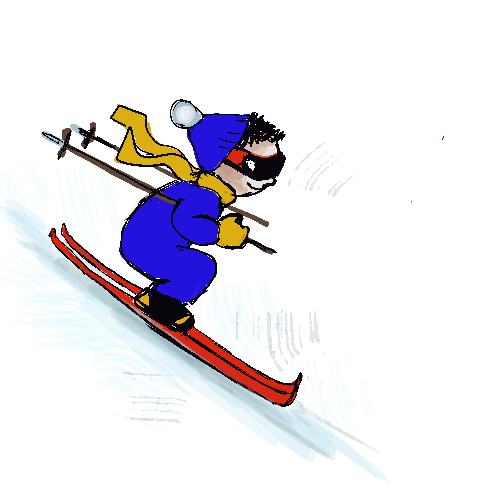
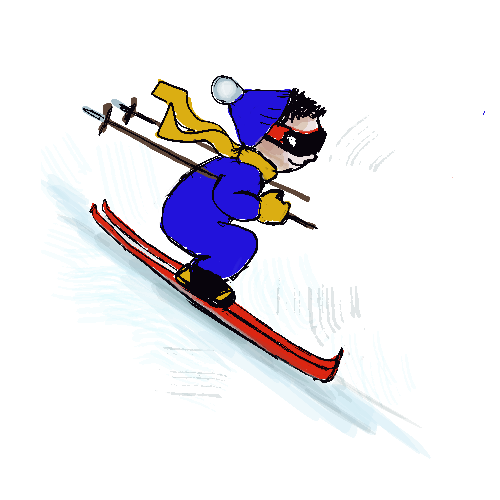
new pictures added, bugs fixed

diff --git a/index.js b/index.js
@@ -7,7 +7,7 @@ let skin = `./imgs/Cutekid`;
 let cordinates = 'lat=57.629871&lon=39.873676';
 
 let cityListAndCords = {
-   'Ярославль':{
+   'Ярославль': {
       cord: 'lat=57.629871&lon=39.873676'
    },
    'Москва': {
@@ -28,17 +28,13 @@ let curData = {};
 let plus5data = {};
 let plus10data = {};
 
-
-
-
-
-cityValue.addEventListener('click',()=>{
+cityValue.addEventListener('click', () => {
    let cityListDiv = document.createElement('div');
    cityListDiv.classList.add('cityListDiv');
-})
+});
 
 
-let dataCons =(cords)=>{
+let dataCons = (cords) => {
 
    fetch(`https://api.openweathermap.org/data/2.5/onecall?${cords}&exclude=minutely,daily&appid=17a2a05179606595e90bf4a02fd2ce0a`)
   .then(function(rspns){return rspns.json()})
@@ -46,18 +42,18 @@ let dataCons =(cords)=>{
      console.log(data); 
 
      
-     let curDataInformation = new dataGetter(data.current,skin);
+     let curDataInformation = new dataGetter(data.current, skin);
      curData = curDataInformation.returnActualData();
      let cardCur = new Card (curData, 'Сейчас');  
      mainDiv.appendChild(cardCur.returnMethod());
      
-     let forward5HInformation = new dataGetter(data.hourly[4],skin);
+     let forward5HInformation = new dataGetter(data.hourly[4], skin);
      plus5data = forward5HInformation.returnActualData();
      let cardPlus5data = new Card(plus5data, 'Через 5 часов');
      mainDiv.appendChild(cardPlus5data.returnMethod()); 
 
 
-     let forward10HInformation = new dataGetter(data.hourly[9],skin);
+     let forward10HInformation = new dataGetter(data.hourly[9], skin);
      plus10data = forward10HInformation.returnActualData();
      let cardPlus10data = new Card(plus10data, 'Через 10 часов');
      mainDiv.appendChild(cardPlus10data.returnMethod());
@@ -74,12 +70,12 @@ dataCons(cordinates);
 //меню выбора города(координат) 
 let cityListDiv = document.createElement('div');
 cityListDiv.classList.add('cityListDiv');
-for (let ci=0;ci<Object.keys(cityListAndCords).length;ci++){
+for (let ci=0; ci < Object.keys(cityListAndCords).length; ci++) {
    let cityP = document.createElement('p');
    cityP.innerHTML=`${Object.keys(cityListAndCords)[ci]}`;
    cityP.classList.add('cityP');
    cityListDiv.appendChild(cityP);
-   cityP.addEventListener('click',()=>{
+   cityP.addEventListener('click', () => {
       cityListDiv.classList.remove('activated');
       city.innerHTML = `${Object.keys(cityListAndCords)[ci]}`;
       mainDiv.innerHTML = '';
@@ -89,7 +85,7 @@ for (let ci=0;ci<Object.keys(cityListAndCords).length;ci++){
 }
 header.appendChild(cityListDiv);
 
-cityValue.addEventListener('click',()=>{
+cityValue.addEventListener('click', () => {
    cityListDiv.classList.toggle('activated');
 })
 

diff --git a/dataGetter.js b/dataGetter.js
@@ -58,25 +58,34 @@ class dataGetter {
           cloudsDescription = 'малооблачно'
          break 
         case '03d':
-          cloudsData = './imgs/sunny.png'
+          cloudsData = './imgs/sunnycloudy.png'
           cloudsDescription = 'переменная облачность'
          break
         
         case '03n':
-          cloudsData = './imgs/sunny.png'
+          cloudsData = './imgs/sunnycloudy.png'
           cloudsDescription = 'переменная облачность'
          break
 
         case '04d':
-          cloudsData = './imgs/sunnycloudy.png'
+          cloudsData = './imgs/cloudy.png'
           cloudsDescription = 'облачно'
          break 
 
         case '04n':
-          cloudsData = './imgs/sunnycloudy.png'
+          cloudsData = './imgs/cloudy.png'
           cloudsDescription = 'облачно'
          break  
         
+         case '10d':
+          cloudsData = './imgs/rainy.png'
+          cloudsDescription = 'дождь'
+         break 
+
+        case '10n':
+          cloudsData = './imgs/rainy.png'
+          cloudsDescription = 'дождь'
+         break   
         case '13d':
           cloudsData = './imgs/litsnow.png'
           cloudsDescription = 'снег'
